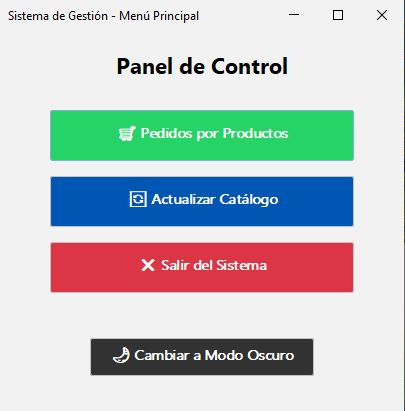
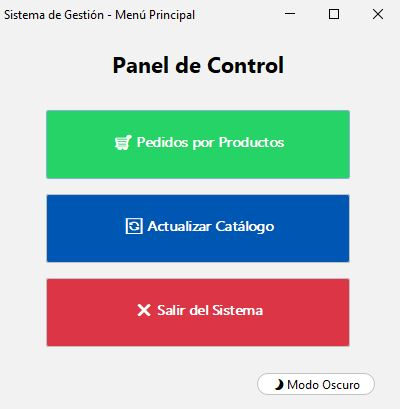
FEAT: Reemplaza boton de tema por toggle switch moderno

diff --git a/src/vista/MenuPrincipal.java b/src/vista/MenuPrincipal.java
@@ -16,7 +16,6 @@ public class MenuPrincipal {
     private final Color AZUL_CORPORATIVO = new Color(0, 86, 179);
     private final Color VERDE_WPP = new Color(37, 211, 102);
     private final Color ROJO_SUAVE = new Color(220, 53, 69);
-    private final Color GRIS_OSCURO = new Color(50, 50, 50);
 
     public MenuPrincipal(Catalogo catalogo) {
         this.catalogo = catalogo;
@@ -27,7 +26,6 @@ public class MenuPrincipal {
         // 1. Configuración de la Ventana
         frame = new JFrame("Sistema de Gestión - Menú Principal");
         frame.setDefaultCloseOperation(JFrame.EXIT_ON_CLOSE);
-        // Amplia un poquito el ancho y alto para que todo respire perfecto
         frame.setSize(420, 420);
         frame.setLayout(new BorderLayout());
 
@@ -55,11 +53,24 @@ public class MenuPrincipal {
 
         frame.add(panelBotones, BorderLayout.CENTER);
 
-        // 4. Panel Inferior - Botón de Tema a seleccionar
-        JPanel panelSur = new JPanel(new FlowLayout(FlowLayout.CENTER));
-        panelSur.setBorder(BorderFactory.createEmptyBorder(20, 0, 30, 0));
-        JButton btnTema = new JButton("🌙 Cambiar a Modo Oscuro");
-        estilizarBoton(btnTema, GRIS_OSCURO, Color.WHITE);
+        // ==========================================
+        // 4. Panel Inferior - Botón Deslizante
+        // ==========================================
+        // Usa FlowLayout.RIGHT para enviarlo a la esquina derecha sutilmente
+        JPanel panelSur = new JPanel(new FlowLayout(FlowLayout.RIGHT));
+        panelSur.setBorder(BorderFactory.createEmptyBorder(0, 0, 10, 20));
+
+        // JToggleButton maneja dos estados: Prendido/Apagado
+        JToggleButton btnTema = new JToggleButton();
+        btnTema.setCursor(new Cursor(Cursor.HAND_CURSOR));
+        btnTema.setFocusPainted(false);
+        btnTema.putClientProperty("JButton.buttonType", "roundRect");
+
+        // Evalúa en qué modo arranca el programa para poner el texto correcto
+        boolean esOscuro = UIManager.getLookAndFeel() instanceof FlatDarkLaf;
+        btnTema.setSelected(esOscuro);
+        btnTema.setText(esOscuro ? "☀ Modo Claro" : "🌙 Modo Oscuro");
+
         panelSur.add(btnTema);
         frame.add(panelSur, BorderLayout.SOUTH);
 
@@ -70,21 +81,14 @@ public class MenuPrincipal {
         // EVENTO GRAFICO: Cambiar Tema: Claro/Oscuro
         btnTema.addActionListener(e -> {
             try {
-                // Pregunta si el tema actual es oscuro
-                boolean esOscuro = UIManager.getLookAndFeel() instanceof FlatDarkLaf;
-
-                if (esOscuro) {
-                    UIManager.setLookAndFeel(new FlatLightLaf());
-                    btnTema.setText("🌙 Cambiar a Modo Oscuro");
-                    btnTema.setBackground(GRIS_OSCURO);
-                    btnTema.setForeground(Color.WHITE);
-                } else {
+                // Si el botón está "hundido/seleccionado", cambia a modo claro
+                if (btnTema.isSelected()) {
                     UIManager.setLookAndFeel(new FlatDarkLaf());
-                    btnTema.setText("☀ Cambiar a Modo Claro");
-                    btnTema.setBackground(new Color(240, 240, 240));
-                    btnTema.setForeground(Color.BLACK);
+                    btnTema.setText("☀ Modo Claro");
+                } else {
+                    UIManager.setLookAndFeel(new FlatLightLaf());
+                    btnTema.setText("🌙 Modo Oscuro");
                 }
-                // La ventana se redibuje con el nuevo tema
                 SwingUtilities.updateComponentTreeUI(frame);
             } catch (Exception ex) {
                 ex.printStackTrace();
@@ -121,17 +125,15 @@ public class MenuPrincipal {
             System.exit(0);
         });
 
-        // Centra la ventana en la pantalla
         frame.setLocationRelativeTo(null);
     }
 
-    // Método auxiliar de diseño
+    // Método de diseño para los botones PRINCIPALES del Menú
     private void estilizarBoton(JButton boton, Color colorFondo, Color colorTexto) {
         boton.setBackground(colorFondo);
         boton.setForeground(colorTexto);
         boton.setFont(new Font("Segoe UI Emoji", Font.BOLD, 14));
         boton.setCursor(new Cursor(Cursor.HAND_CURSOR));
-        // Esto respeta los bordes redondeados y efectos modernos de FlatLaf.
         boton.setMargin(new java.awt.Insets(10, 20, 10, 20));
     }
 
